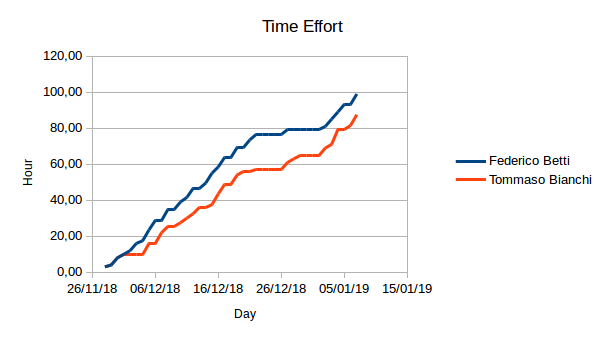
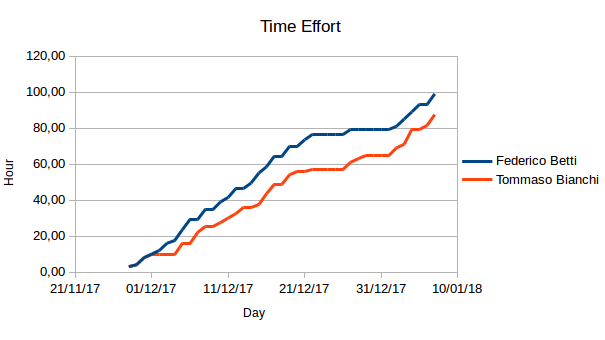
two head review on the document and Time Effort Table built

diff --git a/ITD/Latex/Files/Testing/main.tex b/ITD/Latex/Files/Testing/main.tex
@@ -1,23 +1,24 @@
-Testing is a crucial part of the developing process of a system and Ruby on Rails knows it perfectly. It dedicates a whole independent folder of the system to facilitate their implementation. \\
-In our particular case, since we make the choice of providing small prototypes, tests become precious: after that a test, that certify that a specific functionality of the project works, has been created, every subsequent modifications will have to deal with it to check if this change has introduced a bug in the system or not. \\
-We decided to build two types of test called Model Test and System Test.
+Testing is a crucial part of the development process of a system and Ruby on Rails knows it perfectly. It dedicates a whole independent folder of the system to facilitate their implementation. \\
+In our particular case, since we made the choice of providing small prototypes, tests became precious: after a test, that certifies that a specific functionality of the project works, has been created, every subsequent modification will have to deal with it to ensure no bug have been introduced. \\
+We decided to build two types of test: Model Tests and System Tests.
 
-\subsection{Model Test}
-This type of tests runs on the model of the project that contains the description of all the data on which the system is built. For this reason having consistent data is crucial; they must be formatted properly and must respect some constraints. \\
-The model, on a Ruby on Rails system, is directly related with the tables on the database so it must provide proper validations that has to be tested correctly. It is important to have the largest possible number of model objects tested since the beginning of the implementation process, since that in this way we would be sure that all the components that will create and update data will not insert wrong and inconsistent informations. 
+\subsection{Model Tests}
+This type of test runs on the models of the project, that contain the description of all the data on which the system is based. For this reason having consistent data is crucial; they must be formatted properly and must respect some constraints. \\
+The model, on a Ruby on Rails system, is directly related with the tables on the database so it must provide proper validations that has to be tested correctly. It is important to have the largest possible number of model objects tested since the beginning of the implementation process: in this way we are sure that all the components, that will create and update data, will not insert wrong and inconsistent information. \\
+All model tests can be found in the proper folder of the project. 
 
-\subsection{System Test}
-System testing of software is testing conducted on a complete, integrated system to evaluate the system's compliance with its specified requirements. System testing falls within the scope of black-box testing, and as such, should require no knowledge of the inner design of the code or logic. Ruby on Rails provide out-of-the-box a great system test framework called Capybara, that enabled us to test how the system should appear and should interact with users ignoring all or most of the logic running on the server. \\
+\subsection{System Tests}
+System testing of software is testing conducted on a complete, integrated system to evaluate its compliance with its specified requirements. System testing falls within the scope of black-box testing, and as such, should require no knowledge of the inner design of the code or logic. Ruby on Rails provide out-of-the-box a great system test framework called Capybara, that enabled us to test how the system should appear and should interact with users ignoring all or most of the logic running on the server. \\
 We have tested in this way the features that we consider to be the key ones for the interaction of the user with our system.
 
 \subsubsection*{Login and Signup}
-The purpose of this test is very easy: if a new user register in our website, then the next time he comes back he should be able to login using the same credentials. Also, users should be able to log out and be redirected back to the homepage.
+The purpose of this test is very easy: if a new user registers in our website, then the next time he comes back he should be able to login using the same credentials. Also, users should be able to log out and be redirected back to the homepage.
 
 \subsubsection*{Section Navigation}
-Our website provides users a top-page navigation bar, or header, and a bottom-page navigarion bar, or footer, to give them easy access to the main sections of the \projectname application. The purpose of this test is just to check that each of those sections are reachable by clicking on the apposite button.
+Our website provides users a top-page navigation bar, or header, and a bottom-page navigation bar, or footer, to give them easy access to the main sections of the \projectname~ application. The purpose of this test is just to check that each of those sections is reachable by clicking on the proper button.
 
 \subsubsection*{Meeting Creation}
-This system test contains two test cases: the former's purpose is to check that the meeting creation page works as expected and that a user is able to visualize the meeting just created on his calendar; the latter's one is to check that if a user creates two overlapping meetings, a warning is correctly generated and listed in the appropriate slot in the notification page.
+This system test contains two test cases: the former's purpose is to check that the meeting creation page works as expected and that a user is able to visualize the new meeting on his calendar afterwards; the latter's one is to check that if a user creates two overlapping meetings, a warning is correctly generated and listed in the appropriate slot in the notification page.
 
 \subsubsection*{Default Location Creation}
 The purpose of this test is to ensure that users are able to create a new default location and visualize it in the appropriate slot in the settings page afterwards.

diff --git a/ITD/Latex/Files/CodeStructure/main.tex b/ITD/Latex/Files/CodeStructure/main.tex
@@ -2,16 +2,16 @@ Ruby on Rails is a web framework that implements the Model-View-Controller desig
 Here the main folders in which you can find our code:
 
 \begin{itemize}
-\item~\textbf{app/controllers}: contains a file for each controller, each handling web request for different modules of the application.
-\item~\textbf{app/models}: contains a file for each model, representing the data stored in the database and the associations between them; they also contains method to easily access all the information they contain.
-\item~\textbf{app/view}: contains a file for each view of the application, that is more or less for each web page. Views are written in html enhanced with erb, an implementation of the eRuby (Embedded Ruby) templating system.
-\item~\textbf{app/helpers}: contains some helper function to assist the work of the controllers mainly. Here you can find the core logic that handles the scheduling of meetings, travels and breaks. 
+\item~\textbf{app/controllers}: contains a file for each controller, each handling web requests for different modules of the application.
+\item~\textbf{app/models}: contains a file for each model, representing the data stored in the database and the associations between them; they also contains methods to easily access all the information they hold.
+\item~\textbf{app/view}: contains a file for each view of the application, that is more or less for each web page. Views are written in HTML enhanced with ERB, an implementation of the eRuby (Embedded Ruby) templating system.
+\item~\textbf{app/helpers}: contains some helper functions to mainly assist the work of controllers. Here you can find the core logic that handles the scheduling of meetings, travels and breaks. 
 \item~\textbf{app/assets}: contains all the images, stylesheets and javascript files loaded by the web pages.
-\item~\textbf{app/jobs}: contains files specifying a handful of asynchronous jobs. It is used to perform long calculations such as the scheduling outside the web request thread.
-\item~\textbf{config}: contains configuration code, that remained mostly untouched from the default. Here you can find also the routing file, defining all the URLs of the application and the controller method that should be called to handle a request on each specific route.
-\item~\textbf{db}: contains code defining the structure of the database, specified via migrations, that are a tool to specify incremental, reversible changes to relational database schemas. Here you can find also the seeder, a file we used to fill in the database with fake data for development and testing purposes.
+\item~\textbf{app/jobs}: contains files specifying a handful of asynchronous jobs. They are used to perform long calculations, such as the scheduling, outside the web request thread.
+\item~\textbf{config}: contains configuration code, that remained mostly untouched from the default. Here you can find also the routing file, defining all the URLs of the application and the controller methods that are called to handle each request.
+\item~\textbf{db}: contains the structure of the database defined via migrations, a tool to specify incremental, reversible changes to relational database schemas. Here you can find also the seeder, a file we used to fill in the database with fake data for development and testing purposes.
 \item~\textbf{log}: contains a file for the log of each environment (development, test and production). When running the default Rails server this will be populated with a record of all routes visited and all database queries executed.
-\item~\textbf{test/model}: contains the code of the unit tests.
+\item~\textbf{test/model}: contains the code of the model tests.
 \item~\textbf{test/system}: contains the code of the system tests.
 \item~\textbf{doc}: contains the HTML documentation for all the models, controllers and helpers.
 \end{itemize}

diff --git a/ITD/Latex/Files/Requirements/main.tex b/ITD/Latex/Files/Requirements/main.tex
@@ -1,6 +1,7 @@
-We managed to implement most of the requirements of the \projectname~project. We have decided to develop them following the guide we wrote on the DD document and, at the end, we succeeded to reach a fully usable version of the system, passing through lot of prototypes. \\
-Moreover we present a table that enumerates all the requirements listed in the RASD document, pointing if they have been implemented or not. All the requirements that form the foundation of the system, concerning meetings, travels, users and breaks have been fully developed in order to be able to provide to the stakeholders a complete and suitable version of \projectname. \\
-The requirements that have not been implemented are mostly nice-to-have features that do not impact of the core of the system but mainly enhance the user experience and provide a more complete set of tools for managing meetings. They have not been implemented because of the limited time that we had and to allocate more time for ensuring completeness, robustness and stability of the core features.
+We managed to implement most of the requirements of the \projectname~project. We have decided to develop them following the implementation plan we presented in the DD document and, at the end, we succeeded to reach a fully usable version of the system, passing through lot of prototypes. \\
+All the requirements that form the foundation of the system, concerning meetings, travels, users and breaks have been fully developed in order to be able to provide the stakeholders a sufficiently complete first version of \projectname. \\
+The requirements that have not been implemented are mostly nice-to-have features that do not impact the core of the system but mainly enhance the user experience and provide a more complete set of tools for managing meetings. They have not been implemented in order to allocate more time for ensuring completeness, robustness and stability of the main features.\\ 
+Below we present a table that enumerates all the requirements listed in the RASD document, pointing if they have been implemented or not.
 
 \newcounter{countReq}
 \newcommand{\reqNum}{\stepcounter{countReq}\thecountReq}
@@ -12,7 +13,7 @@ The requirements that have not been implemented are mostly nice-to-have features
 	\textbf{R\reqNum}~Each user must provide an email that is not already present in the system & Implemented	\\ \hline
 	\textbf{R\reqNum}~Each user must provide a nickname that is not already present in the system & Implemented	\\ \hline
 	\textbf{R\reqNum}~Users have to be registered into the system before logging in & Implemented	\\ \hline
-	\textbf{R\reqNum}~Users have to provide an existing email or nickname and the associated password in order to log in; in alternative they can use a supported external login system & Partially Implemented	\\ \hline
+	\textbf{R\reqNum}~Users have to provide an existing email or nickname and the associated password in order to log in; in alternative they can use a supported external login system & Partially Implemented(not the External Login)	\\ \hline
 	\textbf{R\reqNum}~A user must be logged into the system to perform any action except registering and logging in & Implemented	\\ \hline
 	\textbf{R\reqNum}~Users cannot have meetings while their status is set to auto-decline & Not Implemented	\\ \hline
 	\textbf{R\reqNum}~A user cannot have different default locations sharing the start time & Implemented	\\ \hline

diff --git a/ITD/Latex/Files/Framework/advantages.tex b/ITD/Latex/Files/Framework/advantages.tex
@@ -1,7 +1,7 @@
 \begin{itemize}
 \item~\textbf{Ruby on Rails is an opinionated framework}: this means it guides you into their way of doing things and promotes the best standards and practices of web development. The central pillar of the Rails philosophy is the DRY (Don’t Repeat Yourself) principle that ensures a clear separation of concerns and maintainability of your application. The framework embraces the principle of ‘convention over configuration’, according to which Rails defaults to a set of conventions that specify the best way of doing many things.
 
-\item~\textbf{Speed of Development}: Rails well-developed system of modules, generator scripts, and an efficient package management system allow scaffolding a complex application in just a few commands. We can achieve rapid application development thanks to the expressive and concise nature of Ruby language, and also to dozens of open-source libraries for just about any purpose, which the Ruby community calls ‘gems’. As an added bonus, Rails ships with a default ORM system (ActiveRecord), which helps developers quickly put application and data logic together and deploy a fully functional prototype.
+\item~\textbf{Speed of Development}: Rails' well-developed system of modules, generator scripts, and an efficient package management system allow scaffolding a complex application in just a few commands. We can achieve rapid application development thanks to the expressive and concise nature of the Ruby language, and also to dozens of open-source libraries for just about any purpose, which the Ruby community calls ‘gems’. As an added bonus, Rails ships with a default ORM system (ActiveRecord), which helps developers quickly put application and data logic together and deploy a fully functional prototype.
 
-\item~\textbf{Rails is an open-source web framework supported by an active community}: Rails developers are interested in the constant improvement of the code base and incorporation of new functionalities. As a result, with Rails, there is no need to reinvent the wheel in your projects. RoR’s ecosystem contains many “gems”, i.e. pieces of software that can be incorporated into your project. Ruby community takes care of that. Almost any functionality you might need for your web project has already been created. A vibrant community that runs Rails also ensures that the framework is regularly updated, issues are fixed, and security is kept up-to-date with the best industry standards. Also, a big active community means a lot of online material for learning and fast and competent answer to all the problems that may arise during the development.
+\item~\textbf{Rails is an open-source web framework supported by an active community}: Rails developers are interested in the constant improvement of the code base and incorporation of new functionalities. As a result, with Rails, there is no need to reinvent the wheel in your projects. RoR’s ecosystem contains many 'gems'. Almost any functionality you might need for your web project has already been created. A vibrant community that runs Rails also ensures that the framework is regularly updated, issues are fixed, and security is kept up-to-date with the best industry standards. Also, a big active community means a lot of online material for learning and fast and competent answers to all the problems that may arise during the development.
 \end{itemize}

diff --git a/ITD/Latex/Files/Framework/ror.tex b/ITD/Latex/Files/Framework/ror.tex
@@ -1,3 +1,2 @@
-Ruby on Rails, or Rails, is a server-side web application framework written in Ruby under the MIT License. Rails is a model-view-controller (MVC) framework, providing default structures for a database, a web service, and web pages. It encourages and facilitates the use of web standards such as JSON or XML for data transfer, and HTML, CSS and JavaScript for display and user interfacing. In addition to MVC, Rails emphasizes the use of other well-known software engineering patterns and paradigms, including convention over configuration (CoC), don't repeat yourself (DRY), and the active record pattern.
-
-We have chosen to implement the \projectname~ application using the Rails framework and the Ruby language because of its very fast development cycles that permitted us to have a first working prototype in days, and from there to rapidly build up all the functionalities that we managed to include. Another reason for choosing Rails is the big and very active community it has, that helped us finding very easily answers for most of the problems that we had to face during the development. A last, secondary motivation is the tight integration with Heroku, a cloud Platform-as-a-service where we have setup an automatic deploy from our Github repository and that is currently hosting an online working version of the application to showcase \projectname~ more easily.
+Ruby on Rails, or Rails, is a server-side web application framework written in Ruby under the MIT License. Rails is a model-view-controller (MVC) framework, providing default structures for a database, a web service, and web pages. It encourages and facilitates the use of web standards such as JSON or XML for data transfer, and HTML, CSS and JavaScript for display and user interfacing. In addition to MVC, Rails emphasizes the use of other well-known software engineering patterns and paradigms, including Convention over Configuration (CoC), Don't Repeat Yourself (DRY) and the active record pattern.\\
+We have chosen to implement the \projectname~ application using the Rails framework and the Ruby language because of their very fast development cycles that permitted us to have a first working prototype in days, and from there to rapidly build up all the functionalities that we decided to include. Another reason for choosing Rails is the big and very active community it has, that helped us to easily find answers for most of the problems that we had to face during the development. A secondary motivation is the tight integration with Heroku, a cloud Platform-as-a-service where we have setup an automatic deploy from our GitHub repository and that is currently hosting a working version of the application. It can be found at \href{\herokuLink}{\herokuLink}

diff --git a/ITD/Latex/Files/Framework/disadvantages.tex b/ITD/Latex/Files/Framework/disadvantages.tex
@@ -1,9 +1,9 @@
 \begin{itemize}
-\item~\textbf{Runtime Speed and Performance}: Rails has a fairly ‘slow’ runtime speed compared to other frameworks, which makes it harder to scale RoR applications. This is due to the fact that Ruby is an interpreted language, and thus slower by itself compared to compiled ones such as Java, and to the high number of modules running one inside another in a typical RoR application.
+\item~\textbf{Runtime Speed and Performance}: Rails has a fairly ‘slow’ runtime speed compared to other frameworks, which makes it harder to scale RoR applications. This is due to the fact that Ruby is an interpreted language, and thus by definition slower compared to the compiled ones such as Java, and to the high number of modules managing many different layers of abstraction in a typical RoR application.
 
 \item~\textbf{A lot of hard dependencies and modules included out of the box}: while this is also somewhat an advantage because it gives you access right away to a lot of useful library code, it also means that if you do not want to keep the default settings for all of them you need to change a lot of configuration code. This also means that debugging is often harder, as you have to track down where the error came from through a lot of different active modules.
 
 \item~\textbf{High cost of wrong decisions in development}: wrong architecture decisions during the initial stages of your project might cost you more in Rails than in any other framework. Since prototyping with Rails is incredibly fast, an engineering team inexperienced in Rails might make unobvious mistakes that will erode your application’s performance in the future. These structural deficiencies will be hard to fix because Rails is an open framework, where all components are tightly coupled and depend on each other.
 
-\item~\textbf{Lacks tools for very large projects}: as it has been developed with ease of use and fast development in mind, Rails is not very well suited for building very large and complex application.
+\item~\textbf{Lacks tools for very large projects}: as it has been developed with ease of use and fast development in mind, Rails is not very well suited for building very large and complex applications.
 \end{itemize}

diff --git a/ITD/Latex/Files/Introduction/docstructure.tex b/ITD/Latex/Files/Introduction/docstructure.tex
@@ -3,9 +3,9 @@ The DD is organized into 6 main sections:
 \begin{enumerate}
 \item {\textbf{\nameref{sect:introduction}}}: this section contains an overview on the purpose and the scope of this document, toghether with a glossary with the definitions of the main terms we will refer to in the followings.
 \item {\textbf{\nameref{sect:requirements}}}: this section contains a table that lists which of the the requirements of the project, already presented in detail in the RASD document, have been implemented or not.
-\item {\textbf{\nameref{sect:framework}}}: this section contains a deep analysis of the framework and language that we have used to develop the project and the reasons of this choices.
-\item {\textbf{\nameref{sect:codestructure}}}: this section describes the general structure of the final implementation project; it shows all the folders with a brief summary of their contents.
-\item {\textbf{\nameref{sect:testing}}}: this section describes which types of tests that have been made on the project.
+\item {\textbf{\nameref{sect:framework}}}: this section contains a deep analysis of the framework and language that we have used to develop the project and the reasons of these choices.
+\item {\textbf{\nameref{sect:codestructure}}}: this section describes the general structure of the final implementation project; it lists all the folders with a brief summary of their content.
+\item {\textbf{\nameref{sect:testing}}}: this section describes which types of tests have been made on the project.
 \item {\textbf{\nameref{sect:installation}}}: this section contains a detailed guide to install our project on the main operative systems; please note that due to the short time the installation procedure has been tested and is guaranteed to work only on Ubuntu 16.04 Xenial, and thus we suggest to use it or another similar Linux distribution.
 \item {\textbf{\nameref{sect:appendix}}}: this section contains some information about the work behind the drafting of this
 document, such as the amount of time spent by each of the authors, the tools used to produce all

diff --git a/ITD/Latex/Files/Appendix/effortspent.tex b/ITD/Latex/Files/Appendix/effortspent.tex
@@ -4,11 +4,45 @@
 	\begin{tabular}{|m{5cm}|m{5cm}|m{5cm}|}
 		\hline
 		\textbf{Date} & \textbf{Tommaso Bianchi} &  \textbf{Federico Betti}\\ \hline
+		28/11/17 &	3 &	3 \\ \hline
+		29/11/17 &	1 &	1 \\ \hline
+		30/11/17 &	4 &	4 \\ \hline
+		01/12/17 &	2 &	2 \\ \hline
+		02/12/17 &	2 & 0	 \\ \hline
+		03/12/17 &	4 &  0\\ \hline
+		04/12/17 &	1,5 & 0 \\ \hline
+		05/12/17 &	6 &	6 \\ \hline
+		06/12/17 &	5,5 & 0	 \\ \hline
+		07/12/17 &	0 &	6 \\ \hline
+		08/12/17 &	6 &	3,5 \\ \hline
+		10/12/17 &	4 &	2 \\ \hline
+		11/12/17 &	2,5 &	2,5 \\ \hline
+		12/12/17 &	5 &	2,5 \\ \hline
+		13/12/17 &	0 &	3,5 \\ \hline
+		14/12/17 &	3 & 0	 \\ \hline
+		15/12/17 &	5,5 &	1,5 \\ \hline
+		16/12/17 &	3,5 &	6 \\ \hline
+		17/12/17 &	5,5 &	5 \\ \hline
+		19/12/17 &	5,5 &	5,5 \\ \hline
+		20/12/17 &	0 &	2 \\ \hline
+		21/12/17 &	4 & 0	 \\ \hline
+		22/12/17 &	3 &	1 \\ \hline
+		27/12/17 &	2,5 &	4 \\ \hline
+		28/12/17 &	0 &	2 \\ \hline
+		29/12/17 &	0 &	2 \\ \hline
+		02/01/18 &	2 &	4 \\ \hline
+		03/01/18 &	4 &	2 \\ \hline
+		04/01/18 &	4 &	8,5 \\ \hline
+		05/01/18 &	4 & 0	 \\ \hline
+		06/01/18 &	0 &	2 \\ \hline
+		07/01/18 &	6 &	6 \\ \hline
 	\end{tabular}
 	\caption{Effort Spent}
 \end{table}
 
-%\begin{figure}[H]
-%	\centering\includegraphics[width=\textwidth]{Images/EffortSpentGraph}
-%	\caption{Effort Spent}
-%\end{figure}
+
+
+\begin{figure}[H]
+	\centering\includegraphics[width=\textwidth]{Images/TimeEffort.png}
+	\caption{Effort Spent}
+\end{figure}

diff --git a/ITD/Latex/Files/Introduction/purpose.tex b/ITD/Latex/Files/Introduction/purpose.tex
@@ -1,2 +1,2 @@
-This document is an Implementation \& Test Document (ITD). Its main purpose is to describe the structure of the code of the \projectname~ first implementation, toghether with the main development choices such as the programming language adopted and the frameworks used. It also describes the testing approach and the results obtained while doing it. \\
+This document is an Implementation \& Test Document (ITD). Its main purpose is to describe the structure of the code of the \projectname~ first implementation, together with the main development choices such as the programming language adopted and the frameworks used. It also describes the testing approach and the results obtained while doing it. \\
 This document is primarily addressed to the team that will perform the acceptance testing, and to anyone will need to extend the \projectname~ project with new functionalities.

diff --git a/ITD/Latex/Files/Installation/main.tex b/ITD/Latex/Files/Installation/main.tex
@@ -1,3 +1,5 @@
+\projectname~can be test at \href{http://travlendar.it}{travlendar.it}
+
 \newtcblisting{commandshell}{colback=black,colupper=white,
 listing only,listing options={language=sh,breaklines=true},
 every listing line={\textcolor{green}{\small\ttfamily\bfseries \$> }}}

diff --git a/ITD/Latex/Utils/variables.tex b/ITD/Latex/Utils/variables.tex
@@ -2,4 +2,5 @@
 \newcommand{\projectname}{Travlendar+}
 \newcommand{\titleColor}{Black}
 \newcommand{\version}{1.0}
+\newcommand{\herokuLink}{http://travlendar.it}
 %\newcommand{\date}{\today}
